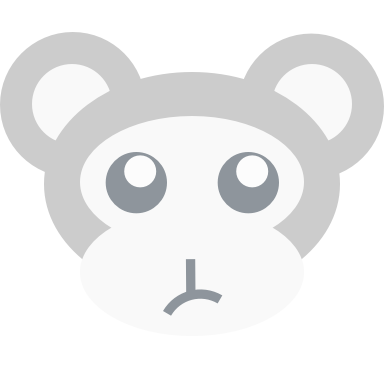
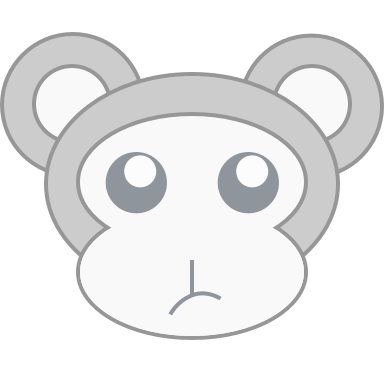
feat(ui): use new assets everywhere (#387)

diff --git a/src/ui/components/views/Account/PlaceSelectorTip.js b/src/ui/components/views/Account/PlaceSelectorTip.js
@@ -30,14 +30,14 @@ const styles = StyleSheet.create({
 	},
 
 	image: {
-		margin: 8,
+		margin: 16,
 	},
 
 	title: {
 		color: Colors.darkGrey,
 		fontWeight: 'bold',
 		fontSize: 16,
-		margin: 8,
+		margin: 16,
 		textAlign: 'center',
 	},
 
@@ -58,19 +58,19 @@ const TYPES = {
 		title: 'Where do you live?',
 		summary: 'Type and pick your apartment, street or neighborhood.',
 		icon: 'location-city',
-		image: require('../../../../../assets/house-and-tree.png'), // eslint-disable-line import/no-commonjs
+		image: require('../../../../../assets/place-home.png'), // eslint-disable-line import/no-commonjs
 	},
 	work: {
 		title: 'Where do you work or study?',
 		summary: 'Type and pick your office or college.',
 		icon: 'work',
-		image: require('../../../../../assets/office-building.png'), // eslint-disable-line import/no-commonjs
+		image: require('../../../../../assets/place-office.png'), // eslint-disable-line import/no-commonjs
 	},
 	hometown: {
 		title: 'Where are you from?',
 		summary: 'Type and pick your hometown.',
 		icon: 'home',
-		image: require('../../../../../assets/village-house.png'), // eslint-disable-line import/no-commonjs
+		image: require('../../../../../assets/place-hometown.png'), // eslint-disable-line import/no-commonjs
 	},
 };
 

diff --git a/src/ui/components/views/Onboard/GetStarted.js b/src/ui/components/views/Onboard/GetStarted.js
@@ -6,6 +6,7 @@ import shallowCompare from 'react-addons-shallow-compare';
 import NextButton from './NextButton';
 import OnboardTitle from './OnboardTitle';
 import OnboardParagraph from './OnboardParagraph';
+import CheckedLabel from './CheckedLabel';
 import TouchFeedback from '../Core/TouchFeedback';
 import Icon from '../Core/Icon';
 import AppText from '../Core/AppText';
@@ -35,7 +36,11 @@ const styles = StyleSheet.create({
 	},
 
 	image: {
-		margin: 8,
+		margin: 16,
+	},
+
+	checklist: {
+		alignItems: 'flex-start',
 	},
 
 	checkboxContainer: {
@@ -113,7 +118,12 @@ export default class GetStarted extends Component<void, Props, void> {
 					<OnboardParagraph style={styles.text}>
 						You're now connected to your
 					</OnboardParagraph>
-					<Image style={styles.image} source={require('../../../../../assets/connected-world.png')} />
+					<View style={styles.checklist}>
+						<CheckedLabel label='Apartment' />
+						<CheckedLabel label='Locality' />
+						<CheckedLabel label='City' />
+					</View>
+					<Image style={styles.image} source={require('../../../../../assets/place-connected.png')} />
 					<View style={styles.invite}>
 						<TouchFeedback onPress={this._handleInvitePress} borderless>
 							<View style={styles.checkboxContainer}>

diff --git a/src/ui/components/views/Offline.native.js b/src/ui/components/views/Offline.native.js
@@ -16,18 +16,18 @@ const {
 const styles = StyleSheet.create({
 	container: {
 		padding: 16,
-		backgroundColor: Colors.primary,
+		backgroundColor: Colors.white,
 	},
 	image: {
 		marginHorizontal: 16,
 		marginVertical: 48,
 	},
 	header: {
-		color: Colors.white,
+		color: Colors.darkGrey,
 		fontSize: 20,
 	},
 	footer: {
-		color: Colors.white,
+		color: Colors.darkGrey,
 	},
 });
 
@@ -47,9 +47,9 @@ export default class Offline extends Component<void, Props, void> {
 	render() {
 		return (
 			<Page {...this.props} style={[ styles.container, this.props.style ]}>
-				<StatusBar backgroundColor={Colors.primaryDark} />
+				<StatusBar backgroundColor={Colors.grey} />
 				<AppText style={styles.header}>Network unavailable!</AppText>
-				<Image style={styles.image} source={require('../../../../assets/astronaut.png')} />
+				<Image style={styles.image} source={require('../../../../assets/offline-balloon.png')} />
 				<AppText style={styles.footer}>Waiting for connection…</AppText>
 			</Page>
 		);

diff --git a/src/ui/components/views/Onboard/CheckedLabel.js b/src/ui/components/views/Onboard/CheckedLabel.js
@@ -1,0 +1,51 @@
+/* @flow */
+
+import React, { Component, PropTypes } from 'react';
+import { View, StyleSheet } from 'react-native';
+import Icon from '../Core/Icon';
+import AppText from '../Core/AppText';
+import Colors from '../../../Colors';
+
+const styles = StyleSheet.create({
+	item: {
+		flexDirection: 'row',
+		alignItems: 'center',
+		marginVertical: 4,
+	},
+
+	icon: {
+		height: 20,
+		width: 20,
+		color: Colors.accent,
+	},
+
+	label: {
+		color: Colors.darkGrey,
+		marginHorizontal: 8,
+	}
+});
+
+type Props = {
+	label: string;
+	style?: any;
+}
+
+export default class CheckedLabel extends Component<void, Props, void> {
+	static propTypes = {
+		label: PropTypes.string.isRequired,
+		style: View.propTypes.style,
+	};
+
+	render() {
+		return (
+			<View style={[ styles.item, this.props.style ]}>
+				<Icon
+					size={20}
+					name='done'
+					style={styles.icon}
+				/>
+				<AppText style={styles.label}>{this.props.label}</AppText>
+			</View>
+		);
+	}
+}

diff --git a/src/ui/components/views/Offline.js b/src/ui/components/views/Offline.js
@@ -9,7 +9,7 @@ import Page from './Page/Page';
 const styles = {
 	container: {
 		padding: 16,
-		backgroundColor: Colors.primary,
+		backgroundColor: Colors.white,
 	},
 	image: {
 		marginLeft: 16,
@@ -18,11 +18,11 @@ const styles = {
 		marginBottom: 48,
 	},
 	header: {
-		color: Colors.white,
+		color: Colors.darkGrey,
 		fontSize: 20,
 	},
 	footer: {
-		color: Colors.white,
+		color: Colors.darkGrey,
 	},
 };
 
@@ -43,7 +43,7 @@ class Offline extends Component<void, Props, void> {
 		return (
 			<Page {...this.props} style={[ styles.container, this.props.style ]}>
 				<div style={styles.header}>Network unavailable!</div>
-				<img style={styles.image} src={require('../../../../assets/astronaut.png')} />
+				<img style={styles.image} src={require('../../../../assets/offline-balloon.png')} />
 				<div style={styles.footer}>Waiting for connection…</div>
 			</Page>
 		);
